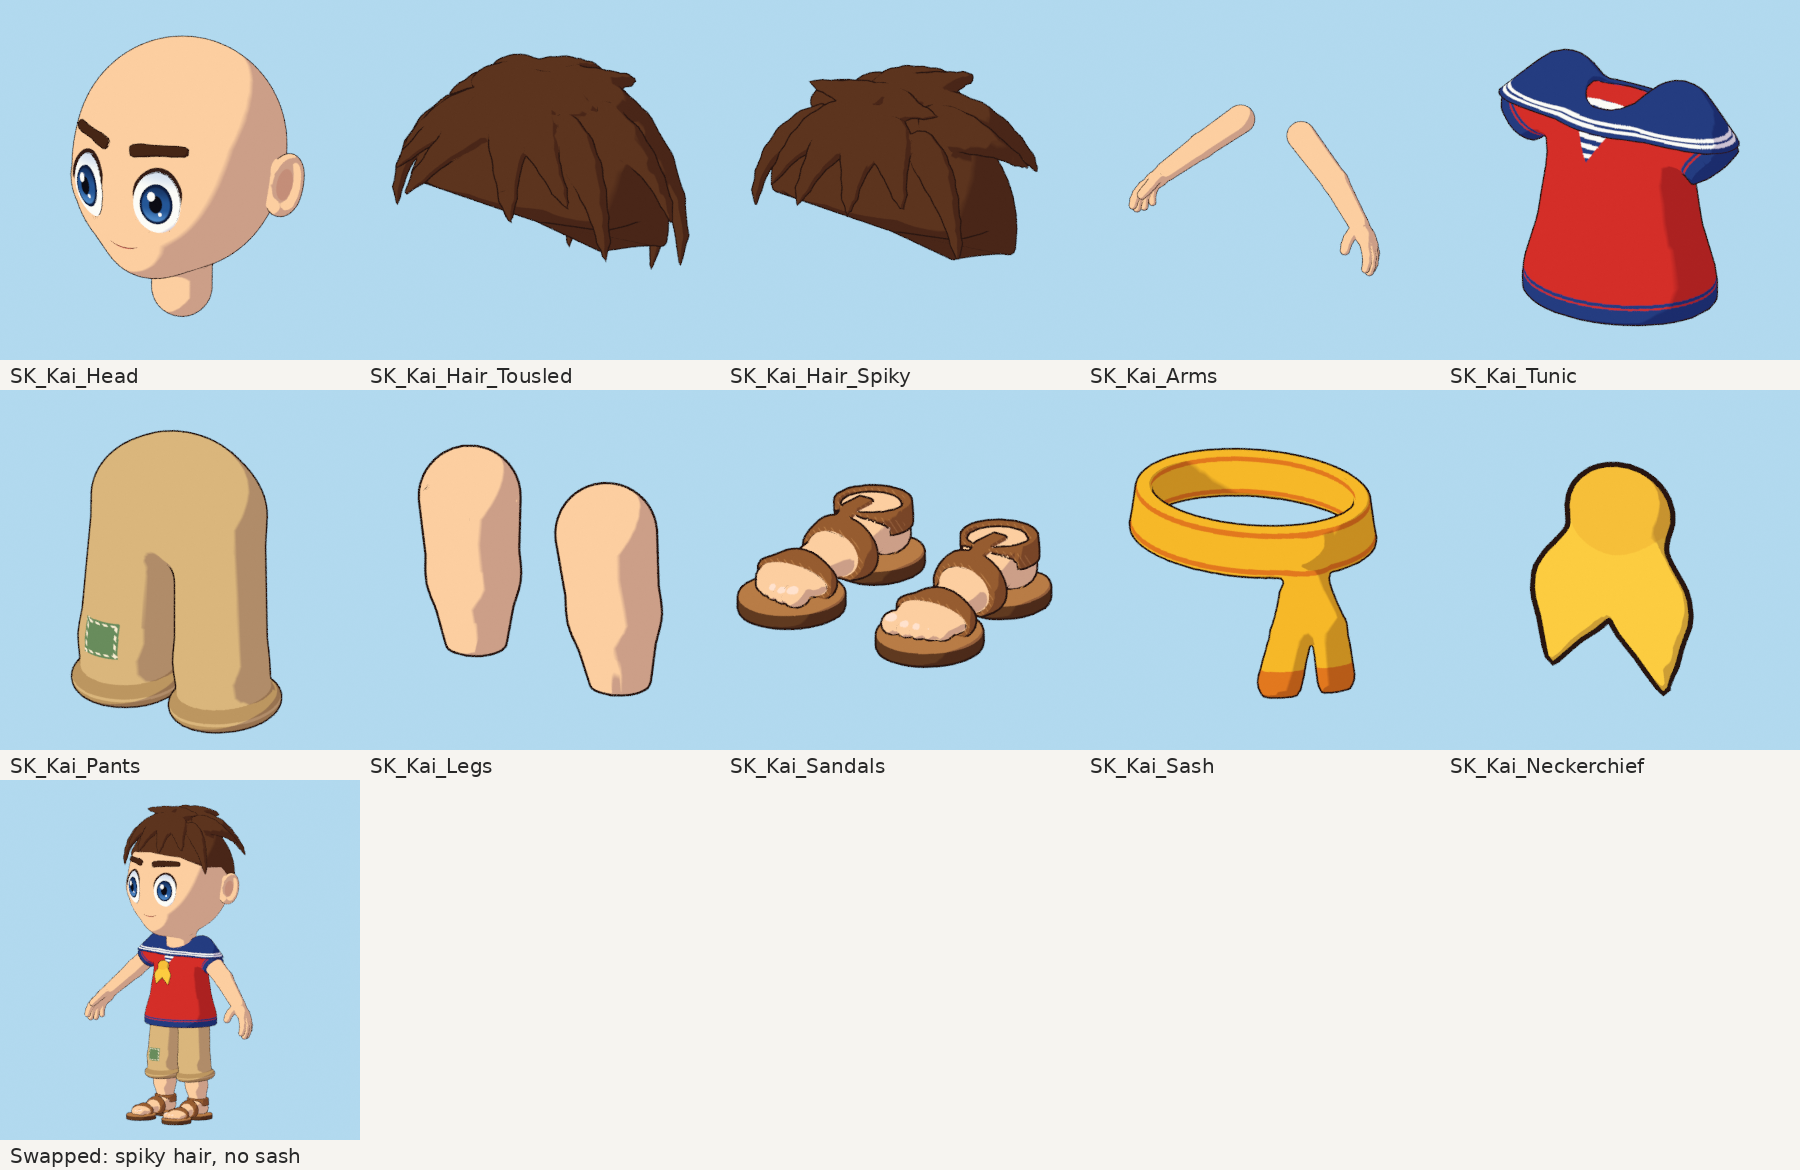
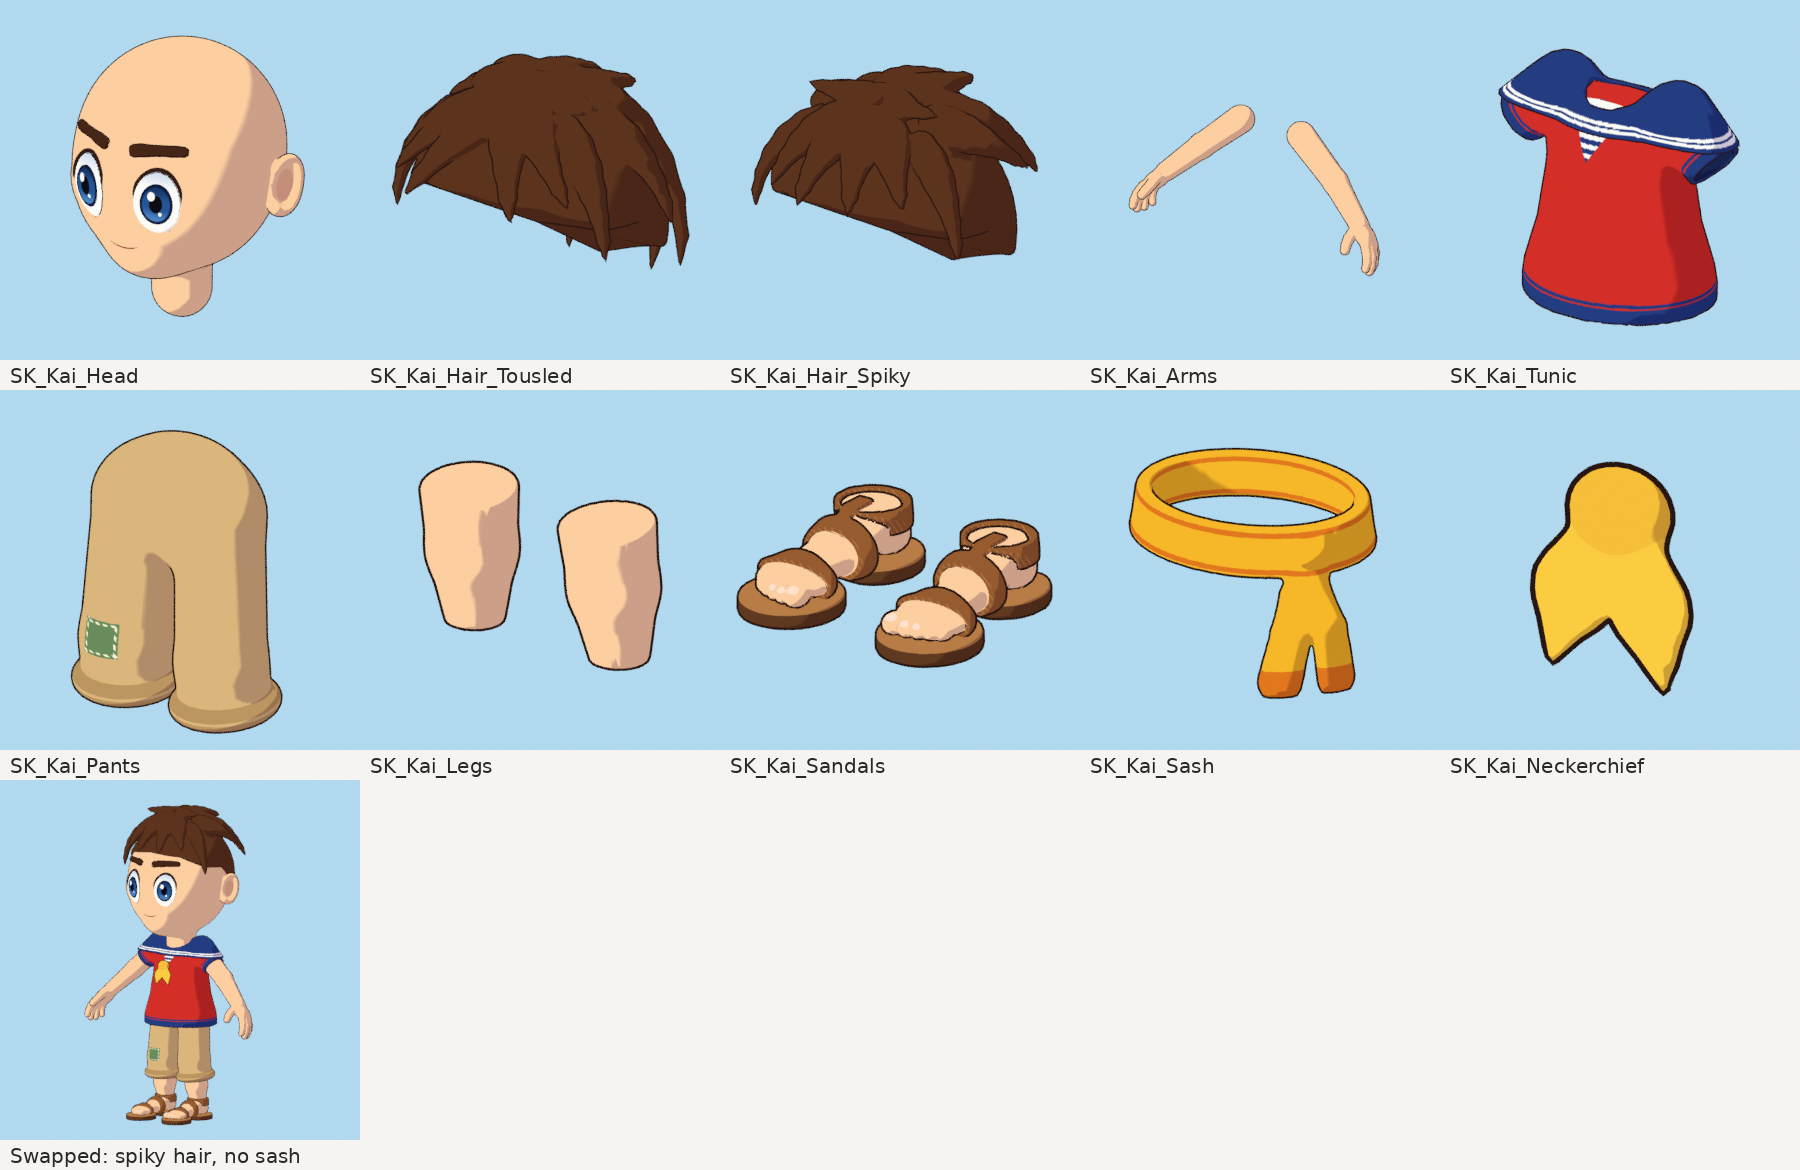
Kai: clothes open at the hem, cuffs and sleeves; skirt and sash move with the legs
The shirt was a solid cut flat at the hem. Its mesh had a flat bottom
across the whole hem with the pants passing straight through it,
visible from any low angle. The pant cuffs and sleeve ends had the
same flaw. In motion, automatic weights tied the shirt waist and sash
to the thighs, so they warped, and lifted thighs pushed through the
skirt and sash.

Geometry:
- open_cloth() hollows a garment into 0.35-0.4 cm cloth where the body
  passes through: the skirt up to the hips, the sleeve ends and the
  rolled cuffs. Thickness is measured from the shape before its edges
  are cut, so each opening runs through. The insides are painted a
  shade darker.
- The hidden top of the calf ends 2.4 cm above the cuff, clear of the
  knee crease.

Weights:
- The shirt follows the spine and pelvis. Below the hips the front and
  sides hand over smoothly to the thighs (95% at the hem); the back
  mostly hangs, since following a forward lift swings it into the seat.
- The sash takes its weights from the shirt surface under it
  (barycentric), so it rides on the skirt. Its tail bones hang from
  the left thigh and keep a share for physics below the hip.

Checks:
- kai_clearance checks the body stays clear of the new inner walls.
- New kai_pose_check poses the legs with FK on the built rig and counts
  visible garment intersections. Clean for run, jump, crouch landing,
  knee lift to 70, back swing to 40, step out to 45. Deeper climbing
[…]

diff --git a/tools/kai_geometry.py b/tools/kai_geometry.py
@@ -621,16 +621,23 @@ def vneck(P):
     return np.maximum(np.maximum(vx * 0.85, -(P[:, 1] + 2.0)), Z["chest"] + 0.2 - P[:, 2])
 
 
-def tunic_sdf(P):
+def _tunic(P, cut=True):
     d = torso_core(P)
     Q = P.copy(); Q[:, 1] = (Q[:, 1] - 0.4) / 0.84 + 0.4                 # flared skirt, elliptic in section
     d = smin(d, sd_round_cone(Q, (0, 0.4, Z["waist"]), (0, 0.4, HEM_Z + 1.0), 9.3, 12.6), 3.0)
     for side, s in SIDES:
         S, E, W, d2 = arm_points(s)
         d1 = nrm(E - S); end = S + d1 * 6.6
-        sl = smax(sd_round_cone(P, S - d1 * 1.2, end, 3.75, 3.55), sd_plane(P, end, d1), 0.25)
+        sl = sd_round_cone(P, S - d1 * 1.2, end, 3.75, 3.55)
+        if cut: sl = smax(sl, sd_plane(P, end, d1), 0.25)                 # sleeve end
         d = smin(d, sl, 1.8)
-    return smax(d, sd_plane(P, (0, 0, HEM_Z), (0, 0, -1)), 0.35)            # hem (the neck simply passes into it)
+    if cut: d = smax(d, sd_plane(P, (0, 0, HEM_Z), (0, 0, -1)), 0.35)      # hem (the neck simply passes into it)
+    return d
+
+
+def tunic_sdf(P):
+    """The shirt's outer shape (a solid; see tunic_cloth_sdf for the cloth itself)."""
+    return _tunic(P)
 
 
 def collar_region(P):
@@ -650,8 +657,33 @@ def collar_sdf(P):
     return smax(d, -sd_capsule(P, (0, 0.5, Z["neck"] - 3.0), (0, 0.5, Z["neck"] + 12.0), 4.3), 0.3)
 
 
+CLOTH = 0.35                                            # cloth thickness where a garment opens round the body
+SKIRT_TOP = 39.0                                        # the hollow inside the shirt's skirt reaches up to here
+
+
+def open_cloth(d, d_uncut, cavity, thick=CLOTH):
+    """Turn a solid garment (d) into cloth `thick` thick wherever cavity < 0, so it opens at its edges (hem, sleeve
+    end, trouser cuff) like real clothing, instead of being capped flat across where the body passes through.
+    The cloth's thickness is measured from the garment before its edges were cut (d_uncut), so the hollow runs
+    out through each edge."""
+    return smax(d, -np.maximum(d_uncut + thick, cavity), 0.12)
+
+
+def tunic_openings(P):
+    """Where the shirt is hollow: the skirt, up to SKIRT_TOP, and the last part of each sleeve."""
+    r = P[:, 2] - SKIRT_TOP
+    for side, s in SIDES:
+        S, E, W, d2 = arm_points(s); d1 = nrm(E - S)
+        r = np.minimum(r, np.maximum(2.0 - (P - S) @ d1, sd_capsule(P, S, S + d1 * 9.0, 4.6)))
+    return r
+
+
+def tunic_cloth_sdf(P):
+    return open_cloth(tunic_sdf(P), _tunic(P, cut=False), tunic_openings(P))
+
+
 def tunic_part_sdf(P):
-    return np.minimum(tunic_sdf(P), collar_sdf(P))
+    return np.minimum(tunic_cloth_sdf(P), collar_sdf(P))
 
 
 TUNIC_BOX = ((-26, 26), (-13, 13), (HEM_Z - 1.5, Z["neck"] + 6))
@@ -665,16 +697,36 @@ def cuff_point(s):
     return K + (A - K) * 0.4
 
 
-def pants_sdf(P):
+def _pants(P, cut=True):
     d = sd_ellipsoid(P, np.array([0, 0.6, Z["pelvis"] + 1.6]), np.array([9.4, 7.0, 7.2]))
     d = smax(d, sd_plane(P, (0, 0, Z["waist"] + 1.0), (0, 0, 1)), 0.4)      # top tucked under the tunic
     for side, s in SIDES:
         H, K, A, Bl, T = leg_points(s)
         C = cuff_point(s); ax = nrm(C - K)
-        leg = smax(sd_chain(P, [H + np.array([-0.5 * s, 0, 1.5]), K, C], [5.0, 5.15, 5.4], 0.8), sd_plane(P, C, ax), 0.3)
+        leg = sd_chain(P, [H + np.array([-0.5 * s, 0, 1.5]), K, C], [5.0, 5.15, 5.4], 0.8)
+        if cut: leg = smax(leg, sd_plane(P, C, ax), 0.3)
         d = smin(d, leg, 2.6)
-        d = smin(d, sd_torus(P, C - ax * 0.3, ax, 5.1, 1.2), 0.4)
+        d = smin(d, sd_torus(P, C - ax * 0.3, ax, 5.1, 1.2), 0.4)          # rolled-up cuff
     return d
+
+
+def pants_sdf(P):
+    """The trousers' outer shape (a solid; see pants_cloth_sdf for the cloth itself)."""
+    return _pants(P)
+
+
+def pants_openings(P):
+    """Where the trousers are hollow: the last 1.6 cm of each leg above the rolled cuff."""
+    r = None
+    for side, s in SIDES:
+        H, K, A, Bl, T = leg_points(s); C = cuff_point(s); ax = nrm(C - K)
+        q = np.maximum(-1.6 - (P - C) @ ax, sd_capsule(P, C - ax * 4.0, C + ax * 3.0, 5.0))
+        r = q if r is None else np.minimum(r, q)
+    return r
+
+
+def pants_cloth_sdf(P):
+    return open_cloth(pants_sdf(P), _pants(P, cut=False), pants_openings(P), 0.4)
 
 
 PANTS_BOX = ((-17, 17), (-12, 12), (8.0, Z["waist"] + 3))
@@ -724,6 +776,8 @@ def leg_skin_sdf(P, s):
     """Calf and ankle: from inside the pants leg down to under the sandal's ankle strap."""
     H, K, A, Bl, T = leg_points(s); C = cuff_point(s)
     calf = sd_chain(P, [K + (C - K) * 0.3, C + (A - C) * 0.4, A + np.array([0, 0, -0.6])], [3.9, 3.45, ANKLE_R - 0.05], 0.8)
+    ax = nrm(C - K)
+    calf = smax(calf, sd_plane(P, C - ax * 2.4, -ax), 0.3)              # ends inside the trouser leg, clear of the knee
     return smax(calf, (ankle_band(s)[0] + 0.25) - P[:, 2], 0.1)
 
 
@@ -1005,7 +1059,7 @@ def skeleton():
     for side, s in SIDES:
         add(bn("hair_side", side), C + [14.5 * s, -6.0, 3.0], C + [15.0 * s, -7.0, -6.5], FWD, "head")
     for tail, (pts, w) in zip("ab", sash_tail_points()):
-        parent = "pelvis"
+        parent = bn("thigh", "L")                 # the tails hang over the left thigh and ride on it
         for j in range(3):
             add(f"sash_{tail}_0{j + 1}", pts[j], pts[j + 1], FWD, parent); parent = f"sash_{tail}_0{j + 1}"
     zs = Z["shoulder"]
@@ -1047,7 +1101,7 @@ def polygonize(sdf, box, h, chunk=24):
 
 PARTS = {   # slot: (sdf, box)
     "head": (head_sdf, HEAD_BOX), "hair_tousled": (hair_tousled_sdf, HAIR_BOX), "hair_spiky": (hair_spiky_sdf, HAIR_BOX),
-    "arms": (arms_sdf, None), "tunic": (tunic_part_sdf, TUNIC_BOX), "pants": (pants_sdf, PANTS_BOX),
+    "arms": (arms_sdf, None), "tunic": (tunic_part_sdf, TUNIC_BOX), "pants": (pants_cloth_sdf, PANTS_BOX),
     "legs": (legs_sdf, LEGS_BOX), "sandals": (sandal_sdf, SANDAL_BOX),
     "sash": (sash_sdf, SASH_BOX), "neckerchief": (neckerchief_sdf, KERCHIEF_BOX),
 }

diff --git a/tools/build_kai.py b/tools/build_kai.py
@@ -319,12 +319,13 @@ PV = np.array([v.co[:] for v in proxy.data.vertices])
 bm.free()
 
 
-def transfer(V):
-    """Weights at points V interpolated from the nearest proxy triangle."""
+def transfer(V, src=None):
+    """Weights at points V interpolated from the nearest triangle of the proxy (or of src = (bvh, verts, tris, W))."""
+    bvh, pv, tri, pw = src if src else (BVH, PV, TRI, PW)
     W = np.zeros((len(V), len(BONES)))
     for i, p in enumerate(V):
-        loc, nor, fi, dist = BVH.find_nearest(Vector(p))
-        a, b, c = PV[TRI[fi]]
+        loc, nor, fi, dist = bvh.find_nearest(Vector(p))
+        a, b, c = pv[tri[fi]]
         v0, v1, v2 = b - a, c - a, np.array(loc) - a
         d00, d01, d11 = v0 @ v0, v0 @ v1, v1 @ v1; d20, d21 = v2 @ v0, v2 @ v1
         den = d00 * d11 - d01 * d01
@@ -332,8 +333,16 @@ def transfer(V):
         else:
             wb = (d11 * d20 - d01 * d21) / den; wc = (d00 * d21 - d01 * d20) / den
             w = np.clip(np.array([1 - wb - wc, wb, wc]), 0, 1); w /= w.sum()
-        W[i] = w @ PW[TRI[fi]]
+        W[i] = w @ pw[tri[fi]]
     return W
+
+
+def mesh_source(ob, W):
+    """A weight source (for transfer) from a skinned part's own surface."""
+    bm = bmesh.new(); bm.from_mesh(ob.data); bmesh.ops.triangulate(bm, faces=bm.faces); bm.faces.ensure_lookup_table()
+    tri = np.array([[v.index for v in f.verts] for f in bm.faces]); bvh = BVHTree.FromBMesh(bm)
+    pv = np.array([v.co[:] for v in ob.data.vertices]); bm.free()
+    return bvh, pv, tri, W
 
 
 def chain_weights(P, pts, bones, radius):
@@ -408,6 +417,18 @@ def slot_weights(slot):
         Wb = W[body]; Wb[hi] = 0; Wb[hi, bidx["head"]] = 1.0; W[body] = Wb
         for p, o in zip(pieces[1:], offs[1:]):
             W[o:o + len(p.V)] = 0; W[o:o + len(p.V), bidx[p.bone]] = 1.0
+    if slot == "tunic":
+        # the shirt itself follows the spine and pelvis, not the thighs (bone heat lets them reach up to the waist)
+        tl, tr, pel = bidx[G.bn("thigh", "L")], bidx[G.bn("thigh", "R")], bidx["pelvis"]
+        W[:, pel] += W[:, tl] + W[:, tr]; W[:, tl] = 0; W[:, tr] = 0
+        # the skirt hands over to the thighs below the hips, so it lifts, swings back and steps out with them
+        t = np.clip((39.5 - P[:, 2]) / (39.5 - (G.HEM_Z + 1.0)), 0, 1)
+        f = t * t * (3 - 2 * t) * 0.95                                # none at the waist, nearly all at the hem
+        # the front and sides rest on the thighs as they lift or step out; the back mostly hangs from the pelvis,
+        # since lifting moves the thighs away from it (following fully would swing it into the seat)
+        f *= 0.3 + 0.7 * np.clip((6.0 - P[:, 1]) / 4.0, 0, 1)
+        left = np.clip(0.5 + P[:, 0] / 10.0, 0, 1)                    # left thigh on the left, both in the middle
+        W *= (1 - f)[:, None]; W[:, tl] += f * left; W[:, tr] += f * (1 - left)
     if slot == "tunic":                                               # the back of the sailor collar flaps
         zs = G.Z["shoulder"]
         flap = (P[:, 1] > 2.0) & (P[:, 2] < zs - 2.0) & (np.abs(G.collar_sdf(P)) < 0.35)
@@ -418,12 +439,13 @@ def slot_weights(slot):
         tail = (P[:, 2] < c[2] - 1.2) & (P[:, 1] < -6.0)
         w = np.clip((c[2] - 1.2 - P[tail, 2]) / 3.5, 0, 1) * 0.85
         W[tail] *= (1 - w)[:, None]; W[tail, bidx["neckerchief"]] += w
-    if slot == "sash":
+    if slot == "sash":                        # rides on the shirt under it, so it moves with the skirt
+        W = transfer(P, mesh_source(PARTS["tunic"], SLOT_W["tunic"]))
         for tail, (pts, wd) in zip("ab", G.sash_tail_points()):
             bones = [f"sash_{tail}_0{j + 1}" for j in range(3)]
             Wc, near = chain_weights(P, pts, bones, 2.6)
             near &= P[:, 2] < pts[0][2] + 0.4
-            k = np.clip((pts[0][2] + 0.4 - P[near, 2]) / 2.0, 0, 1)
+            k = np.clip((G.Z["hip"] - P[near, 2]) / 4.0, 0, 1) * 0.35       # a share for physics flutter, below the hip
             W[near] = W[near] * (1 - k)[:, None] + Wc[near] * k[:, None]
     return limit(W)
 
@@ -438,8 +460,9 @@ def skin(ob, W):
     ob.modifiers.new("Armature", "ARMATURE").object = rig
 
 
+SLOT_W = {}
 for slot, ob in PARTS.items():
-    W = slot_weights(slot)
+    W = SLOT_W[slot] = slot_weights(slot)
     skin(ob, W)
     log("skinned", slot, "bones used:", int((W.sum(0) > 0).sum()))
 bpy.data.objects.remove(proxy)

diff --git a/tools/kai_pose_check.py b/tools/kai_pose_check.py
@@ -1,0 +1,103 @@
+#!/usr/bin/env python3
+"""Check that Kai's clothes stay clear of each other when the legs move.
+
+    python3 tools/kai_pose_check.py [build dir, default kai]
+
+Opens the built Kai.blend, poses the legs with plain bone rotations (the way game animation drives them, with the
+posing rig's IK switched off) and counts triangles where one part cuts through the outside of another: shirt and
+pants, sash and pants, shirt and calves. Only faces that can be seen are counted (the outer surface of each
+garment, classified in the rest pose), so overlaps hidden inside clothing are ignored. Exits non-zero if anything
+cuts through in the supported range of motion; poses beyond it are reported for information.
+"""
+import math, os, sys
+import numpy as np
+import bpy
+from mathutils import Matrix, Vector
+from mathutils.bvhtree import BVHTree
+
+sys.path.insert(0, os.path.dirname(os.path.abspath(__file__)))
+import kai_geometry as G
+
+argv = sys.argv[sys.argv.index("--") + 1:] if "--" in sys.argv else sys.argv[1:]
+D = os.path.abspath(argv[0] if argv else "kai")
+bpy.ops.wm.open_mainfile(filepath=os.path.join(D, "Kai.blend"))
+rig = bpy.data.objects["Armature"]
+for pb in rig.pose.bones:
+    for c in pb.constraints: c.influence = 0.0
+
+
+def reset():
+    for pb in rig.pose.bones: pb.matrix_basis = Matrix.Identity(4)
+    bpy.context.view_layer.update()
+
+
+def turn_world(name, axis, deg):
+    """Rotate a bone about a world axis through its head, on top of its current pose."""
+    pb = rig.pose.bones[name]; h = pb.head.copy()
+    pb.matrix = Matrix.Translation(h) @ Matrix.Rotation(math.radians(deg), 4, Vector(axis)) @ Matrix.Translation(-h) @ pb.matrix
+    bpy.context.view_layer.update()
+
+
+def leg(side, lift=0.0, knee=0.0, out=0.0):
+    """lift: thigh forward (+) or back (-); knee: bend; out: step out sideways (degrees). Kai faces -Y."""
+    s = 1.0 if side == "L" else -1.0
+    if out: turn_world(G.bn("thigh", side), (0, 1, 0), -out * s)
+    if lift: turn_world(G.bn("thigh", side), (1, 0, 0), -lift)
+    if knee: turn_world(G.bn("calf", side), (1, 0, 0), knee)
+
+
+# supported range of motion for platforming, and poses beyond it (reported only)
+SUPPORTED = {
+    "run stride": [("L", 55, 75, 0), ("R", -25, 35, 0)],
+    "jump tuck": [("L", 50, 85, 0), ("R", 50, 85, 0)],
+    "crouch landing": [("L", 75, 110, 8), ("R", 75, 110, 8)],
+    "knee lift 70": [("L", 70, 90, 0)],
+    "kick back 40": [("R", -40, 40, 0)],
+    "step out 45": [("L", 0, 10, 45)],
+}
+BEYOND = {
+    "knee lift 85": [("L", 85, 100, 0)],
+    "climb pull-up 95": [("L", 95, 110, 0), ("R", 5, 15, 0)],
+}
+
+PAIRS = [("SK_Kai_Tunic", "SK_Kai_Pants"), ("SK_Kai_Sash", "SK_Kai_Pants"), ("SK_Kai_Tunic", "SK_Kai_Legs")]
+reset()
+OUTER = {}                                    # faces of each garment that can be seen, from its outer shape at rest
+for name, fn in (("SK_Kai_Tunic", G.tunic_sdf), ("SK_Kai_Pants", G.pants_sdf)):
+    ob = bpy.data.objects[name]
+    cen = np.array([(ob.matrix_world @ p.center)[:] for p in ob.data.polygons])
+    OUTER[name] = set(np.flatnonzero(fn(cen) > -0.15).tolist())
+
+
+def tree(name):
+    ob = bpy.data.objects[name]
+    ev = ob.evaluated_get(bpy.context.evaluated_depsgraph_get()); me = ev.to_mesh()
+    t = BVHTree.FromPolygons([ob.matrix_world @ v.co for v in me.vertices], [tuple(p.vertices) for p in me.polygons])
+    ev.to_mesh_clear()
+    return t
+
+
+def cuts(legs):
+    reset()
+    for side, lift, knee, out in legs: leg(side, lift, knee, out)
+    trees = {n: tree(n) for n in {x for p in PAIRS for x in p}}
+    out = {}
+    for a, b in PAIRS:
+        ov = trees[a].overlap(trees[b])
+        if a in OUTER: ov = [(i, j) for i, j in ov if i in OUTER[a]]
+        if b in OUTER: ov = [(i, j) for i, j in ov if j in OUTER[b]]
+        out[f"{a[7:]}/{b[7:]}"] = len(ov)
+    return out
+
+
+bad = 0
+for group, poses in (("supported", SUPPORTED), ("beyond the supported range", BEYOND)):
+    print(f"-- {group}")
+    for name, legs in poses.items():
+        c = cuts(legs)
+        n = sum(c.values())
+        if group == "supported": bad += n
+        print(f"{name:20s} " + "  ".join(f"{k} {v:4d}" for k, v in c.items()), flush=True)
+reset()
+print("POSE_CHECK_OK" if bad == 0 else f"POSE_CHECK_FAIL {bad}")
+sys.exit(1 if bad else 0)

diff --git a/tools/kai_clearance.py b/tools/kai_clearance.py
@@ -57,6 +57,13 @@ bad += check("upper arms hidden in the sleeves", arms, G.tunic_sdf, under_sleeve
 head = surface(G.head_base_sdf, G.HEAD_BOX)
 bad += check("neck hidden in the tunic and collar (below the collar)", head,
              lambda P: np.minimum(G.tunic_sdf(P), G.collar_sdf(P)), lambda P: P[:, 2] < G.Z["shoulder"] - 0.2, True, 0.05)
+# where the clothes open round the body, the body stays clear of the cloth's inner wall
+bad += check("pants clear of the shirt's cloth inside the skirt", pants, G.tunic_cloth_sdf,
+             lambda P: (P[:, 2] > G.HEM_Z - 0.5) & (P[:, 2] < G.SKIRT_TOP - 0.6), False, 0.1)
+bad += check("calves clear of the trouser cloth at the cuffs", legs, G.pants_cloth_sdf,
+             lambda P: G.pants_openings(P) < -0.6, False, 0.1)
+bad += check("arms clear of the sleeve cloth at the sleeve ends", arms, G.tunic_cloth_sdf,
+             lambda P: G.tunic_openings(P) < -0.6, False, 0.1)
 ears = lambda P: np.any([(G.ear_zone(P, s) < 1.0) & (G.ear_local(P, s)[:, 2] > 0.0) for _, s in G.SIDES], axis=0)
 for style in ("hair_tousled", "hair_spiky"):
     bad += check(f"ears clear of the {style.split('_')[1]} hair", head, G.PARTS[style][0], ears, False, 0.02)

diff --git a/tools/kai_textures.py b/tools/kai_textures.py
@@ -200,6 +200,9 @@ def paint_tunic(a):
     vee = cloth & (vx < 0) & (P[:, 1] < -2.0) & (P[:, 2] > G.Z["chest"] + 0.2)
     stripe = np.sin(P[:, 2] * math.pi / 0.55) > 0
     col[vee] = PAL["white"]; col[vee & stripe] = PAL["navy"]
+    # the inside of the cloth (seen from below, up the skirt or a sleeve) a shade darker
+    inner = cloth & (G.tunic_sdf(P) < -0.5 * G.CLOTH)
+    col[inner] = col[inner] * 0.62
     # sailor collar: navy with two white stripes along its outer edge
     cm = which == 1
     if cm.any():
@@ -220,6 +223,9 @@ def paint_pants(a):
         cuff = (np.linalg.norm(P - C, axis=1) < 8.0) & (along > -1.8)
         col[cuff] = PAL["pants_dark"]
         col[cuff & (np.abs(along + 0.3) < 0.18)] = PAL["pants"]
+    # the inside of the trouser legs, seen up from the cuffs, a shade darker
+    inner = G.pants_sdf(P) < -0.2
+    col[inner] = col[inner] * 0.62
     # a green patch with white stitches on Kai's right knee
     K = G.leg_points(-1)[1]
     q = P - (K + np.array([0, -4.6, 1.2]))
